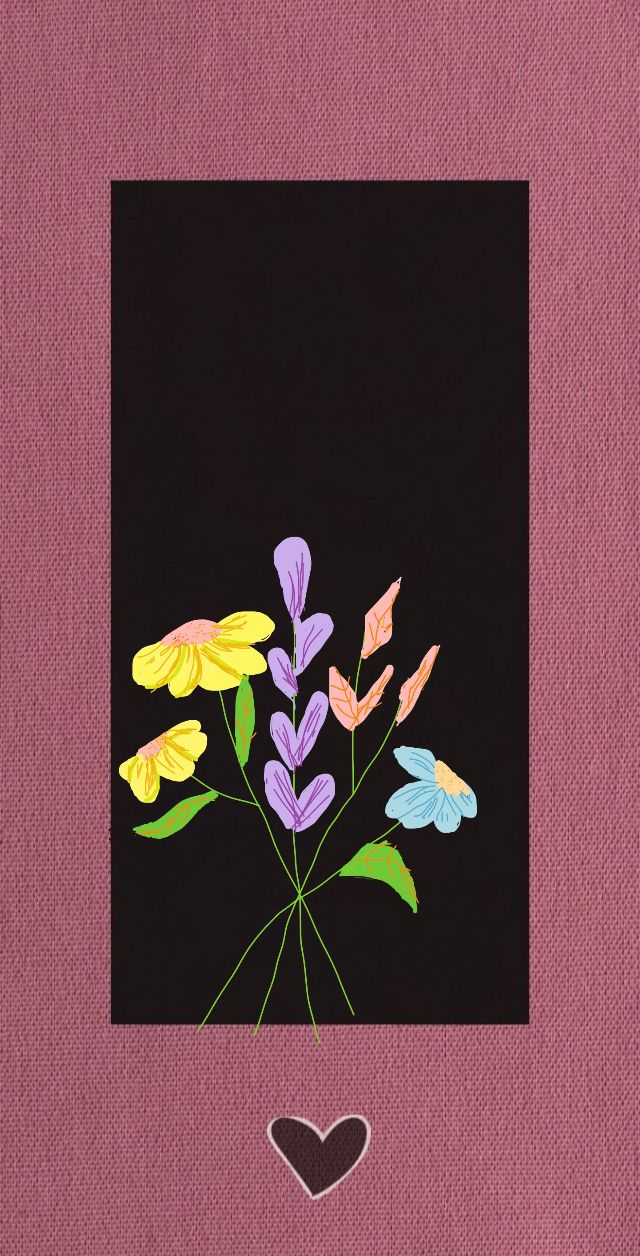
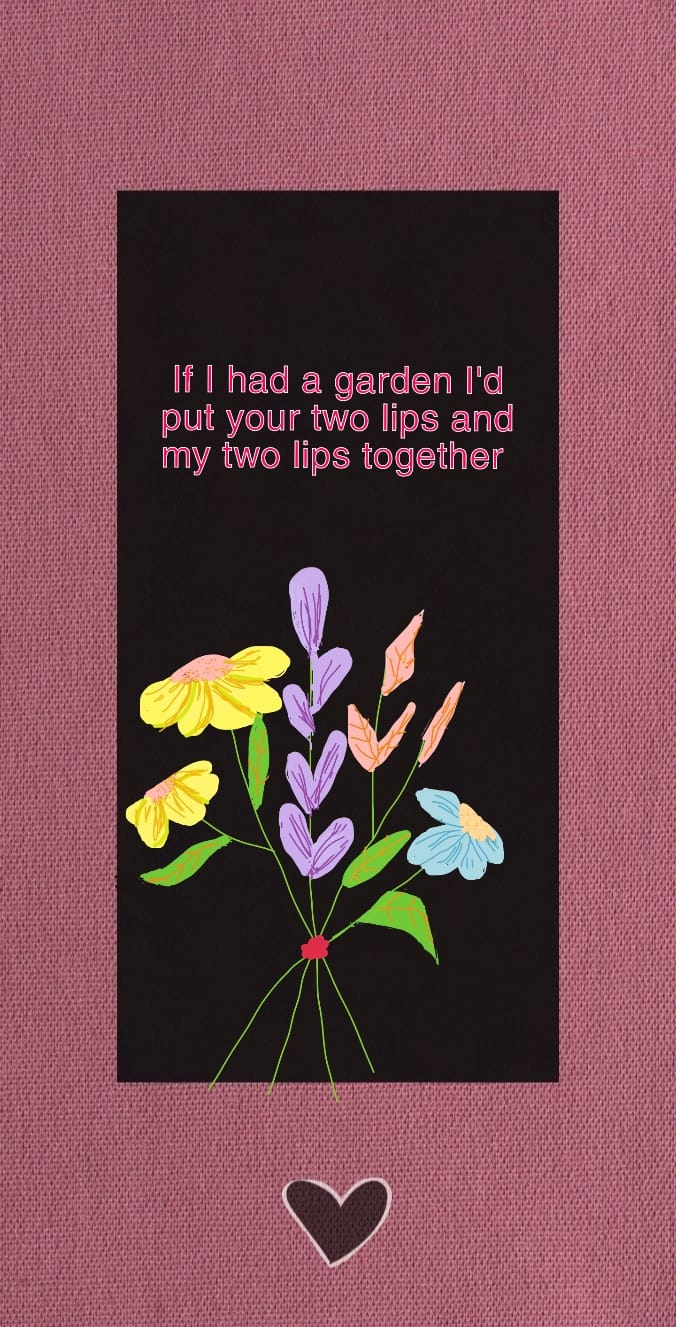
Anniversay page update

diff --git a/src/Components/anniversary.js b/src/Components/anniversary.js
@@ -5,10 +5,71 @@ const AnniversaryPage = () => {
   return (
     <div className="anniversary-container">
       <h1>Happy 3rd Anniversary, My Love! 💖</h1>
+      <p>My girl</p>
+      <p>My pretty girl</p>
+      <p>My love</p>
+      <p>My only love</p>
+      <p>My baby</p>
+      <p>My baby girl</p>
+      <p>My princess</p>
+      <p>My beautiful princess</p>
+      <p>My sunshine</p>
+      <p>My morning sunshine</p>
+      <p>My moon</p>
+      <p>My midnight moon</p>
+      <p>My life</p>
+      <p>My whole life</p>
+      <h4>Meri jaan</h4>
+      <h3>Meri pyaari jaan</h3>
+      <h2>HAPPY ANNIVERSARY USHNA JEEEEEEEE</h2>
       <p>
-        It’s been an incredible journey with you by my side, and I feel so lucky to have you. 
-        Every moment we've shared has been a blessing, and I can’t wait to create even more memories with you. 
-        Here’s to us and the beautiful love we’ve nurtured over the last 3 years. I love you more with every passing day. 🌸💐
+      Do you realise how wonderful it is that we have spent 3 years together<br></br>
+      It's been 3 years since I have been falling for those eyes everyday<br></br>
+      3 years since that lovely smile has been making my day<br></br>
+      We've gone through a lot<br></br>
+      A lot more than anyone can imagine<br></br>
+      Or survive<br></br>
+      We've been each others right arm<br></br>
+      Helping and supporting at every point of our lives<br></br>
+      I am the luckiest man alive<br></br>
+      Because I have<br></br>
+      I swear to GOD<br></br>
+      I could not as for anything more<br></br>
+      You are my everything<br></br>
+      And I truly mean it when I say that<br></br>
+      You are the love of my life<br></br>
+      You are a breath of fresh breeze for me<br></br>
+      You're perfect in every sense for me<br></br>
+      A blessing in disguise<br></br>
+      A dream come true<br></br>
+      A visit to a cocomo factory<br></br>
+      A wall full of salanty stickers<br></br>
+      A 100 hour album of Eminem songs<br></br>
+      A 7 course meal of beef burgers<br></br>
+      A track ride of my favorite car koenigsegg<br></br>
+      You're all of them to me<br></br>
+      Your voice sounds like a red switch mechanical keyboard to me<br></br>
+      So soothing that I could fall asleep in your lap<br></br>
+      And have dreams of us doing the most romantic things<br></br>
+      I love you<br></br>
+      I really really love you<br></br>
+      With all of my heart<br></br>
+      My heart belongs to you<br></br>
+      And it will be yours forever<br></br>
+      I promise<br></br>
+      Nobody in this life or the other could ever take your place<br></br>
+      You're the most precious thing to me in all the universe<br></br>
+      It's been only 3 years<br></br>
+      We have a whole lifetime together<br></br>
+      We will go to the prettiest places<br></br>
+      Have the best laughs<br></br>
+      Eat our favourite foods<br></br>
+      All of this together<br></br>
+      Cuz I am falling for you more every single day my love<br></br>
+      Happy anniversary my baby girl<br></br>
+      I love you<br></br>
+      I LOVE YOU SOOOOOOOOOOO MUCHHHHHHHHH<br></br>
+. 🌸💐
       </p>
       <div className="heart-container">
         {/* Add flowers and hearts */}

diff --git a/src/Components/anniversary.css b/src/Components/anniversary.css
@@ -102,3 +102,4 @@
       transform: translateY(0);
     }
   }  
+  
